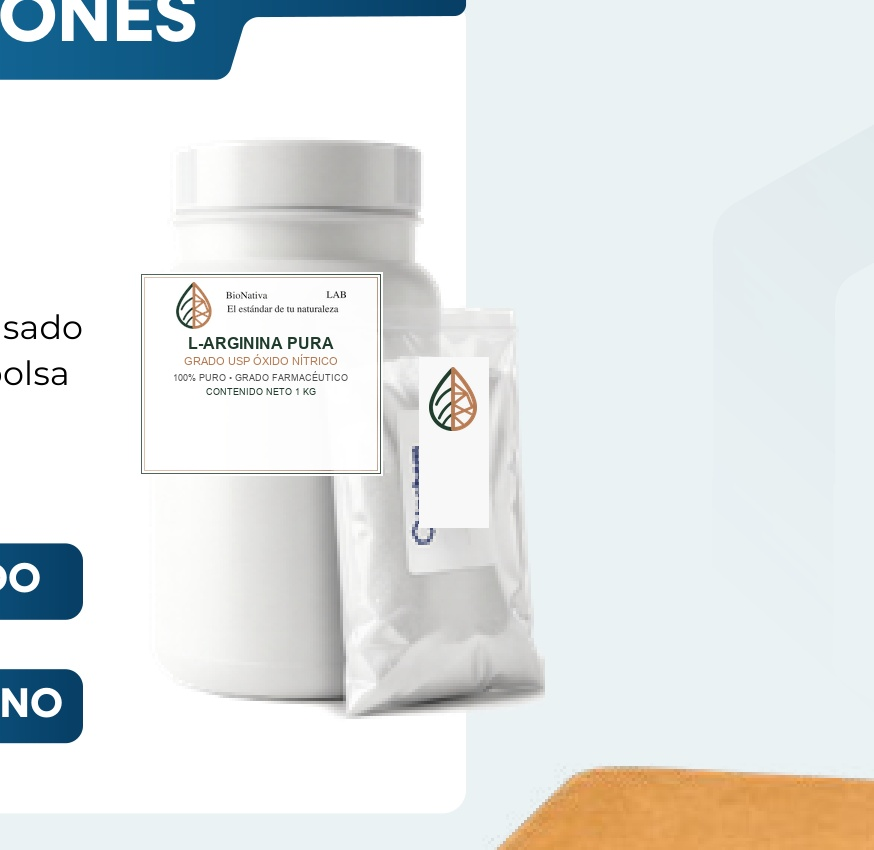
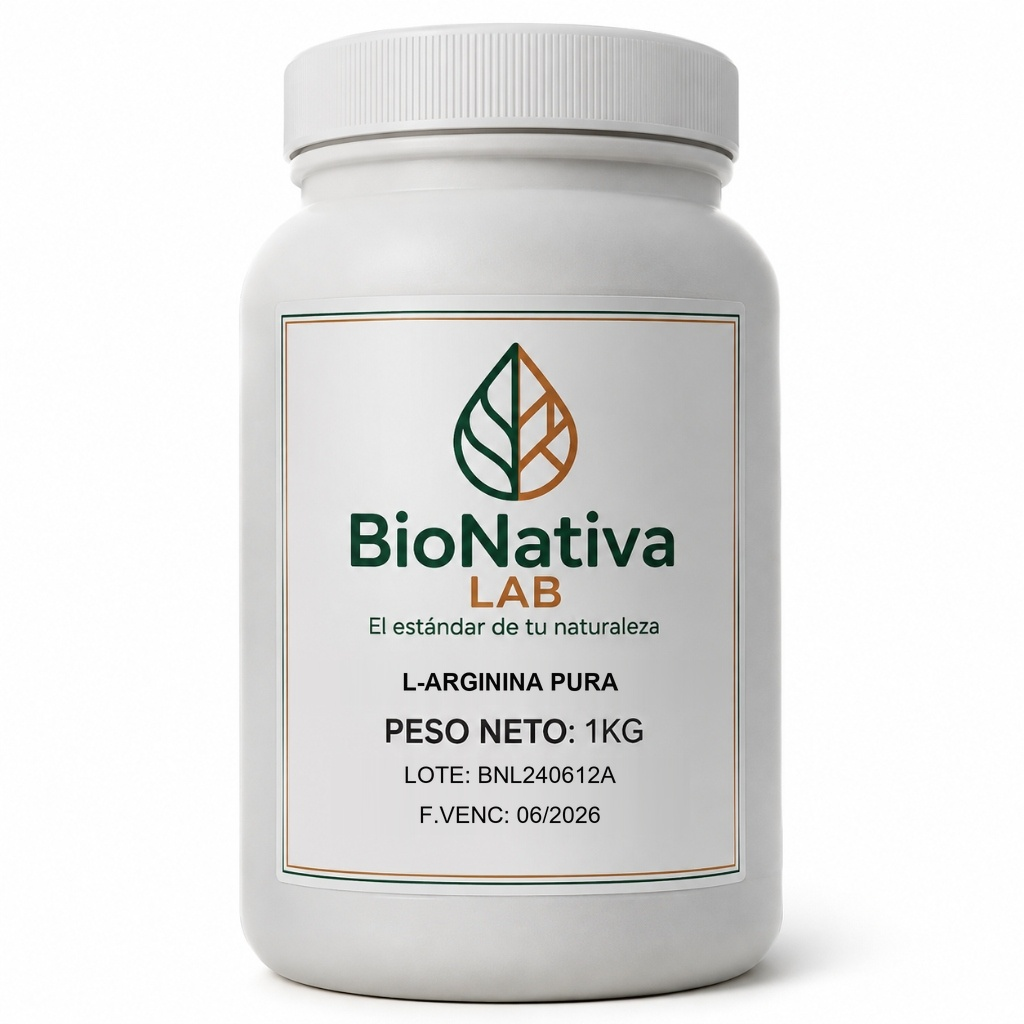
feat(catalog): agregar presentaciones de 1kg para arginina y sincronizar imagenes de catalogo

diff --git a/js/products-data.js b/js/products-data.js
@@ -214,7 +214,7 @@ const BIONATIVA_PRODUCTS = [
     "badge": "Óxido Nítrico & Circulación",
     "rating": 4.7,
     "reviewsCount": 64,
-    "image": "img/products/arginina-pura-1kg.jpg",
+    "image": "img/products/arginina-pura-pote-1kg.jpg",
     "hasVariants": true,
     "price": 57.4,
     "unit": "1KG",
@@ -245,7 +245,7 @@ const BIONATIVA_PRODUCTS = [
         "format": "Bolsa Polietileno Sellada (Formato Ahorro)",
         "packagingType": "bolsa",
         "sku": "BIO-ARG-BOL-1K",
-        "image": "img/products/arginina-pura-1kg.jpg"
+        "image": "img/products/arginina-pura-bolsa-1kg.jpg"
       },
       {
         "id": "pote-1kg",
@@ -255,7 +255,7 @@ const BIONATIVA_PRODUCTS = [
         "format": "Pote HDPE Blanco Boticario con Precinto",
         "packagingType": "pote",
         "sku": "BIO-ARG-POT-1K",
-        "image": "img/products/arginina-pura-1kg.jpg"
+        "image": "img/products/arginina-pura-pote-1kg.jpg"
       },
       {
         "id": "tambor-25kg",

diff --git a/generate_corrected_presentations.py b/generate_corrected_presentations.py
@@ -1,6 +1,7 @@
 import os
 import shutil
-from PIL import Image, ImageDraw, ImageFont
+from collections import deque
+from PIL import Image, ImageDraw, ImageFont, ImageFilter
 import numpy as np
 
 BASE_DIR = r"G:\Mi unidad\CONTABILIDAD\BIONATIVA"
@@ -71,7 +72,88 @@ def generate_pote_image(product_name, lote="BNL240501A", fvenc="05/2026"):
     return im_final.convert("RGB")
 
 
-def generate_bolsa_image(product_name, lote="BNL240501A", fvenc="05/2026"):
+def apply_powder_tone(pil_img, color_type=None):
+    if not color_type:
+        return pil_img
+    img = pil_img.convert('RGB')
+    arr = np.array(img).astype(np.float32)
+    h, w, _ = arr.shape
+    lum = arr.mean(axis=2)
+
+    visited = np.zeros((h, w), dtype=bool)
+    queue = deque()
+    for x in range(w):
+        for y in [0, 1, 2, h-3, h-2, h-1]:
+            if lum[y, x] >= 244 and not visited[y, x]:
+                visited[y, x] = True
+                queue.append((y, x))
+    for y in range(h):
+        for x in [0, 1, 2, w-3, w-2, w-1]:
+            if lum[y, x] >= 244 and not visited[y, x]:
+                visited[y, x] = True
+                queue.append((y, x))
+    while queue:
+        cy, cx = queue.popleft()
+        for dy, dx in [(-1, 0), (1, 0), (0, -1), (0, 1)]:
+            ny, nx = cy + dy, cx + dx
+            if 0 <= ny < h and 0 <= nx < w and not visited[ny, nx]:
+                if lum[ny, nx] >= 245:
+                    visited[ny, nx] = True
+                    queue.append((ny, nx))
+    bg_mask = visited
+    bag_mask_raw = (~bg_mask).astype(np.float32)
+
+    label_mask = np.zeros((h, w), dtype=np.float32)
+    r = 13
+    for y in range(292, 739):
+        for x in range(221, 543):
+            dx = max(0, 221 + r - x, x - (542 - r))
+            dy = max(0, 292 + r - y, y - (738 - r))
+            if dx*dx + dy*dy <= r*r:
+                label_mask[y, x] = 1.0
+
+    label_pil = Image.fromarray((label_mask * 255).astype(np.uint8))
+    label_dilated = label_pil.filter(ImageFilter.MaxFilter(7))
+    label_weight = np.array(label_dilated).astype(np.float32) / 255.0
+
+    bag_pil = Image.fromarray((bag_mask_raw * 255).astype(np.uint8))
+    bag_eroded = bag_pil.filter(ImageFilter.MinFilter(3))
+    bag_smooth = bag_eroded.filter(ImageFilter.GaussianBlur(1.2))
+    bag_weight = np.array(bag_smooth).astype(np.float32) / 255.0
+
+    powder_weight = np.clip(bag_weight * (1.0 - label_weight), 0.0, 1.0)
+    pw_pil = Image.fromarray((powder_weight * 255).astype(np.uint8)).filter(ImageFilter.GaussianBlur(1.0))
+    powder_weight = np.array(pw_pil).astype(np.float32) / 255.0
+
+    L = np.clip(lum / 255.0, 0.0, 1.0)
+    if color_type == "whey":
+        intensity = 0.95
+        r_factor = 1.0 + (0.05 * (1.0 - L) + 0.015) * intensity
+        g_factor = 1.0 - (0.07 * (1.0 - L) + 0.035) * intensity
+        b_factor = 1.0 - (0.29 * (1.0 - L) + 0.135) * intensity
+    elif color_type == "soya":
+        intensity = 0.70
+        r_factor = 1.0 + (0.04 * (1.0 - L) + 0.010) * intensity
+        g_factor = 1.0 - (0.05 * (1.0 - L) + 0.020) * intensity
+        b_factor = 1.0 - (0.22 * (1.0 - L) + 0.090) * intensity
+    else:
+        return pil_img
+
+    specular = np.clip((L - 0.94) / 0.05, 0.0, 1.0)
+    target_r = np.clip(arr[:, :, 0] * r_factor, 0, 255)
+    target_g = np.clip(arr[:, :, 1] * g_factor, 0, 255)
+    target_b = np.clip(arr[:, :, 2] * b_factor, 0, 255)
+    target_r = target_r * (1.0 - specular) + arr[:, :, 0] * specular
+    target_g = target_g * (1.0 - specular) + arr[:, :, 1] * specular
+    target_b = target_b * (1.0 - specular) + arr[:, :, 2] * specular
+
+    pw = powder_weight[:, :, np.newaxis]
+    blended = arr * (1.0 - pw) + np.stack([target_r, target_g, target_b], axis=2) * pw
+    blended = np.clip(blended, 0, 255).astype(np.uint8)
+    return Image.fromarray(blended)
+
+
+def generate_bolsa_image(product_name, lote="BNL240501A", fvenc="05/2026", color_type=None):
     im = bolsa_tpl.copy()
     arr = np.array(im).copy()
     
@@ -116,7 +198,10 @@ def generate_bolsa_image(product_name, lote="BNL240501A", fvenc="05/2026"):
     overlay_res = overlay.resize((w, h), Image.Resampling.LANCZOS)
     im_final = Image.alpha_composite(im_clean, overlay_res)
     
-    return im_final.convert("RGB")
+    im_rgb = im_final.convert("RGB")
+    if color_type:
+        return apply_powder_tone(im_rgb, color_type)
+    return im_rgb
 
 
 def generate_caja_image(product_name, weight_str="25 KG – CAJA INDUSTRIAL"):
@@ -288,6 +373,8 @@ PRODUCTS_MAPPING = [
         "weight_ind": "20 KG – SACO INDUSTRIAL",
         "lote": "BNL240610A",
         "fvenc": "06/2026",
+        "color_type": "whey",
+        "skip_ind": True,
         "file_bolsa": "proteina-suero-leche-80-bolsa-1kg.jpg",
         "file_pote": "proteina-suero-leche-80-pote-1kg.jpg",
         "file_ind": "proteina-suero-leche-80-20kg.jpg",
@@ -299,9 +386,23 @@ PRODUCTS_MAPPING = [
         "weight_ind": "20 KG – SACO INDUSTRIAL",
         "lote": "BNL240611A",
         "fvenc": "06/2026",
+        "color_type": "soya",
+        "skip_ind": True,
         "file_bolsa": "proteina-soya-vegetal-bolsa-1kg.jpg",
         "file_pote": "proteina-soya-vegetal-pote-1kg.jpg",
         "file_ind": "proteina-soya-vegetal-20kg.jpg",
+        "is_orig_template": False
+    },
+    {
+        "id": "arginina-pura",
+        "name_label": "L-ARGININA PURA",
+        "weight_ind": "25 KG – TAMBOR INDUSTRIAL",
+        "lote": "BNL240612A",
+        "fvenc": "06/2026",
+        "skip_ind": True,
+        "file_bolsa": "arginina-pura-bolsa-1kg.jpg",
+        "file_pote": "arginina-pura-pote-1kg.jpg",
+        "file_ind": "arginina-pura-25kg.jpg",
         "is_orig_template": False
     }
 ]
@@ -322,14 +423,18 @@ for p in PRODUCTS_MAPPING:
         caja_tpl.save(path_ind, quality=95)
         pote_tpl.save(path_main, quality=95)
     else:
-        im_bolsa = generate_bolsa_image(p["name_label"], p["lote"], p["fvenc"])
+        im_bolsa = generate_bolsa_image(p["name_label"], p["lote"], p["fvenc"], color_type=p.get("color_type"))
         im_bolsa.save(path_bolsa, quality=95)
+        
+        path_cat = os.path.join(PRODUCTS_DIR, "catalogo-1kg", f"{p['id']}-1kg.jpg")
+        im_bolsa.save(path_cat, quality=95)
         
         im_pote = generate_pote_image(p["name_label"], p["lote"], p["fvenc"])
         im_pote.save(path_pote, quality=95)
         
-        im_caja = generate_caja_image(p["name_label"], p["weight_ind"])
-        im_caja.save(path_ind, quality=95)
+        if not p.get("skip_ind"):
+            im_caja = generate_caja_image(p["name_label"], p["weight_ind"])
+            im_caja.save(path_ind, quality=95)
         
         # Guardar también como hero image 1kg (el pote boticario)
         im_pote.save(path_main, quality=95)
